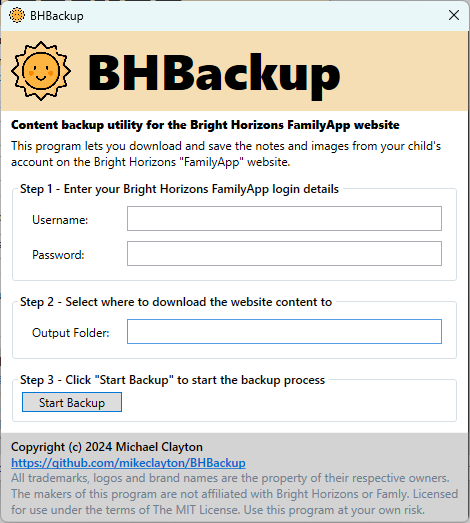
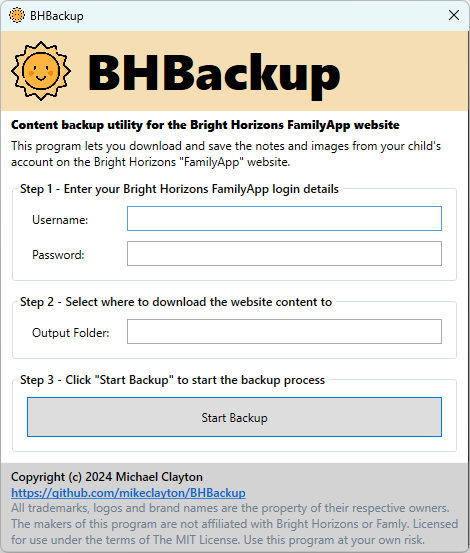
* updated readme screenshot

diff --git a/src/BHBackup.WpfApp/MainWindow.xaml b/src/BHBackup.WpfApp/MainWindow.xaml
@@ -7,18 +7,21 @@
         Title="BHBackup" Height="Auto" Width="500" MaxWidth="500" SizeToContent="WidthAndHeight" ResizeMode="NoResize"
         Icon="/images/sun.png">
     <StackPanel>
+        <!-- banner -->
         <DockPanel LastChildFill="True" Margin="0, 0, 0, 0" Background="Wheat" Height="80" VerticalAlignment="Top">
             <Image Source="/images/sun.png" DockPanel.Dock="Left" Width="60" Margin="10" VerticalAlignment="Center"/>
             <StackPanel>
                 <Label Content="BHBackup" Height="75" VerticalAlignment="Center" FontSize="50" FontWeight="Black" HorizontalAlignment="Left" Margin="0, 0, 0, 0"/>
             </StackPanel>
         </DockPanel>
+        <!-- intro -->
         <DockPanel LastChildFill="True" Height="Auto" VerticalAlignment="Top">
             <StackPanel>
                 <Label Content="Content backup utility for the Bright Horizons FamilyApp website" VerticalAlignment="Center" FontWeight="Black" HorizontalAlignment="Left" Margin="5, 0, 5, 0" />
                 <TextBlock TextWrapping="WrapWithOverflow" Margin="10, 0, 10, 5">This program lets you download and save the notes and images from your child's account on the Bright Horizons &quot;FamilyApp&quot; website.</TextBlock>
             </StackPanel>
         </DockPanel>
+        <!-- step 1 -->
         <DockPanel LastChildFill="True" Height="Auto" Width="Auto" Margin="0,0,0,0" VerticalAlignment="Top">
             <GroupBox Margin="10, 5, 10, 5">
                 <GroupBox.Header>
@@ -42,6 +45,7 @@
                 </Grid>
             </GroupBox>
         </DockPanel>
+        <!-- step 2 -->
         <DockPanel LastChildFill="True" Height="Auto" Width="Auto" Margin="0,0,0,0" VerticalAlignment="Top">
             <GroupBox Margin="10, 5, 10, 5">
                 <GroupBox.Header>
@@ -62,6 +66,7 @@
                 </Grid>
             </GroupBox>
         </DockPanel>
+        <!-- step 3 -->
         <DockPanel LastChildFill="True" Height="Auto" Width="Auto" Margin="0,0,0,0" VerticalAlignment="Top">
             <GroupBox Margin="10, 5, 10, 10">
                 <GroupBox.Header>
@@ -69,18 +74,12 @@
                         Step 3 - Click "Start Backup" to start the backup process
                     </TextBlock>
                 </GroupBox.Header>
-                <Grid Margin="5, 5, 5, 5">
-                    <Grid.ColumnDefinitions>
-                        <ColumnDefinition Width="100"></ColumnDefinition>
-                        <ColumnDefinition Width="*"/>
-                    </Grid.ColumnDefinitions>
-                    <Grid.RowDefinitions>
-                        <RowDefinition Height="*"></RowDefinition>
-                    </Grid.RowDefinitions>
-                    <Button Content="Start Backup" Click="StartBackup_Click" Height="20" VerticalAlignment="Bottom" IsDefault="True" />
-                </Grid>
+                <DockPanel Margin="10, 10, 10, 10">
+                    <Button Content="Start Backup" Click="StartBackup_Click" VerticalAlignment="Bottom" IsDefault="True" Width="Auto" Height="40" />
+                </DockPanel>
             </GroupBox>
         </DockPanel>
+        <!-- disclaimer -->
         <DockPanel LastChildFill="True" Height="Auto">
             <StackPanel Background="LightGray" Height="Auto">
                 <TextBlock VerticalAlignment="Center" Margin="10, 5, 10, 0" Padding="0" FontWeight="SemiBold">Copyright (c) 2024 Michael Clayton</TextBlock>
